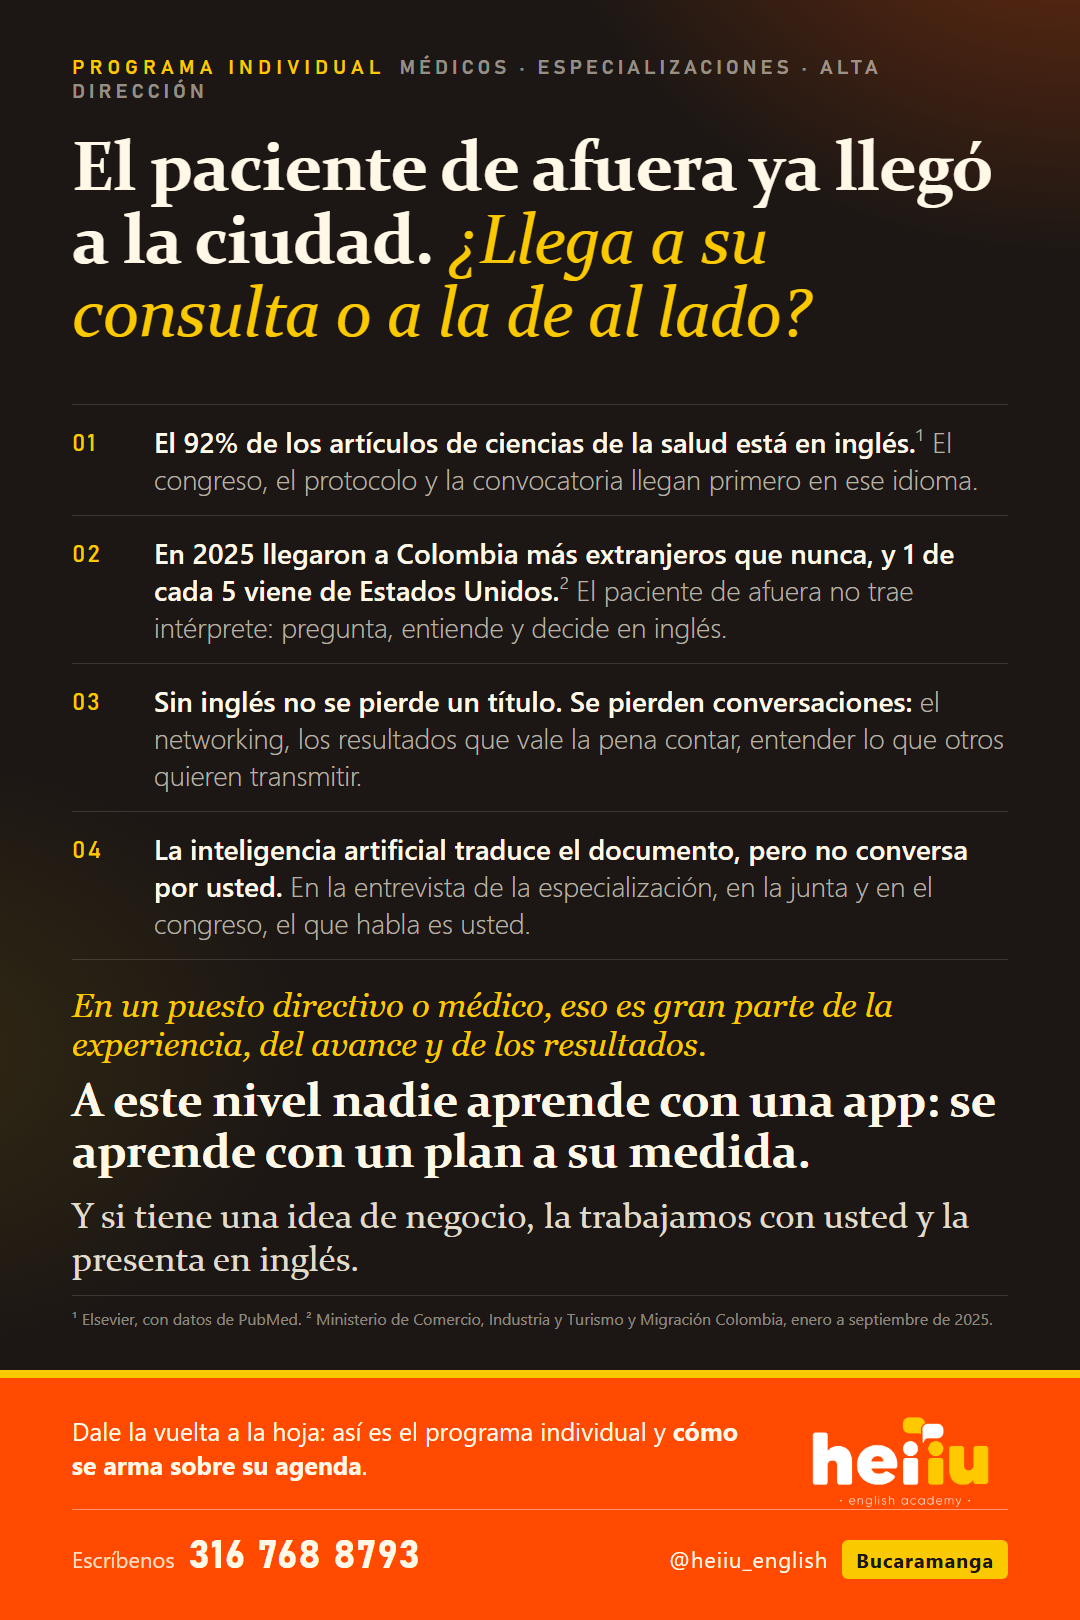
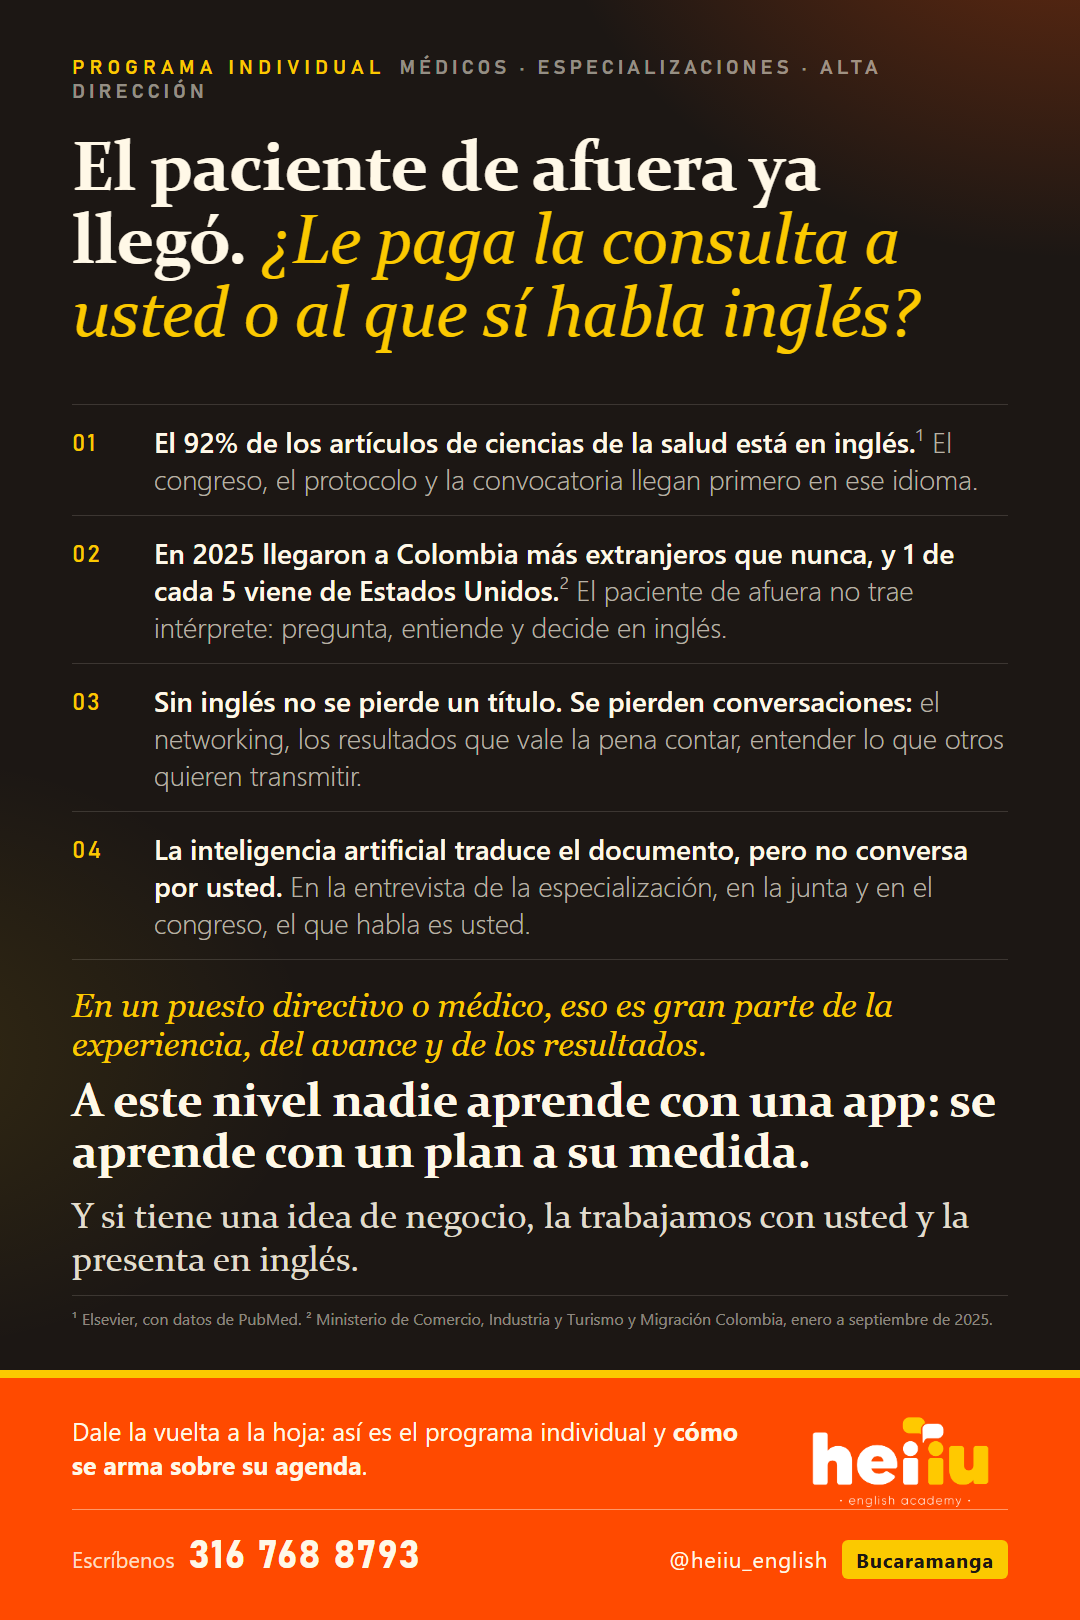
Pieza medicos: titular 'el paciente de afuera ya llego; le paga la consulta a usted o al que si habla ingles'; corta sin 'nuevo' en el punto 01 para que la fuente no quede bajo la banda

Changed region(s): [[0.0611, 0.0926, 0.9167, 0.216]]

diff --git a/generadores/comercial/gen_piezas_conciencia.py b/generadores/comercial/gen_piezas_conciencia.py
@@ -187,7 +187,7 @@ PIEZAS = {
 
     'MEDICOS_DIRECTIVOS_FRENTE': dict(   # programa individual de 100 horas: sin garantia (decision de gerencia 24/10/2026), trato de usted
         compact=True, label='PROGRAMA INDIVIDUAL', sub='MÉDICOS · ESPECIALIZACIONES · ALTA DIRECCIÓN',
-        h1='El paciente de afuera ya llegó a la ciudad. <em>¿Llega a su consulta o a la de al lado?</em>',
+        h1='El paciente de afuera ya llegó. <em>¿Le paga la consulta a usted o al que sí habla inglés?</em>',
         st=[('<b>El 92% de los artículos de ciencias de la salud está en inglés.</b>¹ El congreso, el protocolo y la convocatoria llegan primero en ese idioma.'),
             ('<b>En 2025 llegaron a Colombia más extranjeros que nunca, y 1 de cada 5 viene de Estados Unidos.</b>² El paciente de afuera no trae intérprete: pregunta, entiende y decide en inglés.'),
             ('<b>Sin inglés no se pierde un título. Se pierden conversaciones:</b> el networking, los resultados que vale la pena contar, entender lo que otros quieren transmitir.'),
@@ -292,8 +292,8 @@ PIEZAS = {
         band_px=290),
     'MEDICOS_DIRECTIVOS_CORTA': dict(
         compact=True, label='PROGRAMA INDIVIDUAL', sub='MÉDICOS · ESPECIALIZACIONES · ALTA DIRECCIÓN',
-        h1='El paciente de afuera ya llegó a la ciudad. <em>¿Llega a su consulta o a la de al lado?</em>',
-        st=[('<b>El 92% de los artículos de ciencias de la salud está en inglés.</b>¹ El congreso, el protocolo nuevo y la convocatoria llegan primero en ese idioma.'),
+        h1='El paciente de afuera ya llegó. <em>¿Le paga la consulta a usted o al que sí habla inglés?</em>',
+        st=[('<b>El 92% de los artículos de ciencias de la salud está en inglés.</b>¹ El congreso, el protocolo y la convocatoria llegan primero en ese idioma.'),
             ('<b>En 2025 llegaron a Colombia más extranjeros que nunca, y 1 de cada 5 viene de Estados Unidos.</b>² El paciente de afuera no trae intérprete: pregunta, entiende y decide en inglés.'),
             ('<b>Entrenamos conversaciones avanzadas en su área laboral:</b> la junta, el congreso, el paciente o el cliente de afuera, la entrevista de la especialización. Plan a su medida, audio corto cada día que su profesor devuelve con una mejora, y reporte mensual de su avance.')],
         lead='Sin inglés no se pierde un título. Se pierden conversaciones: el networking, los resultados que vale la pena contar, entender lo que otros quieren transmitir.',
